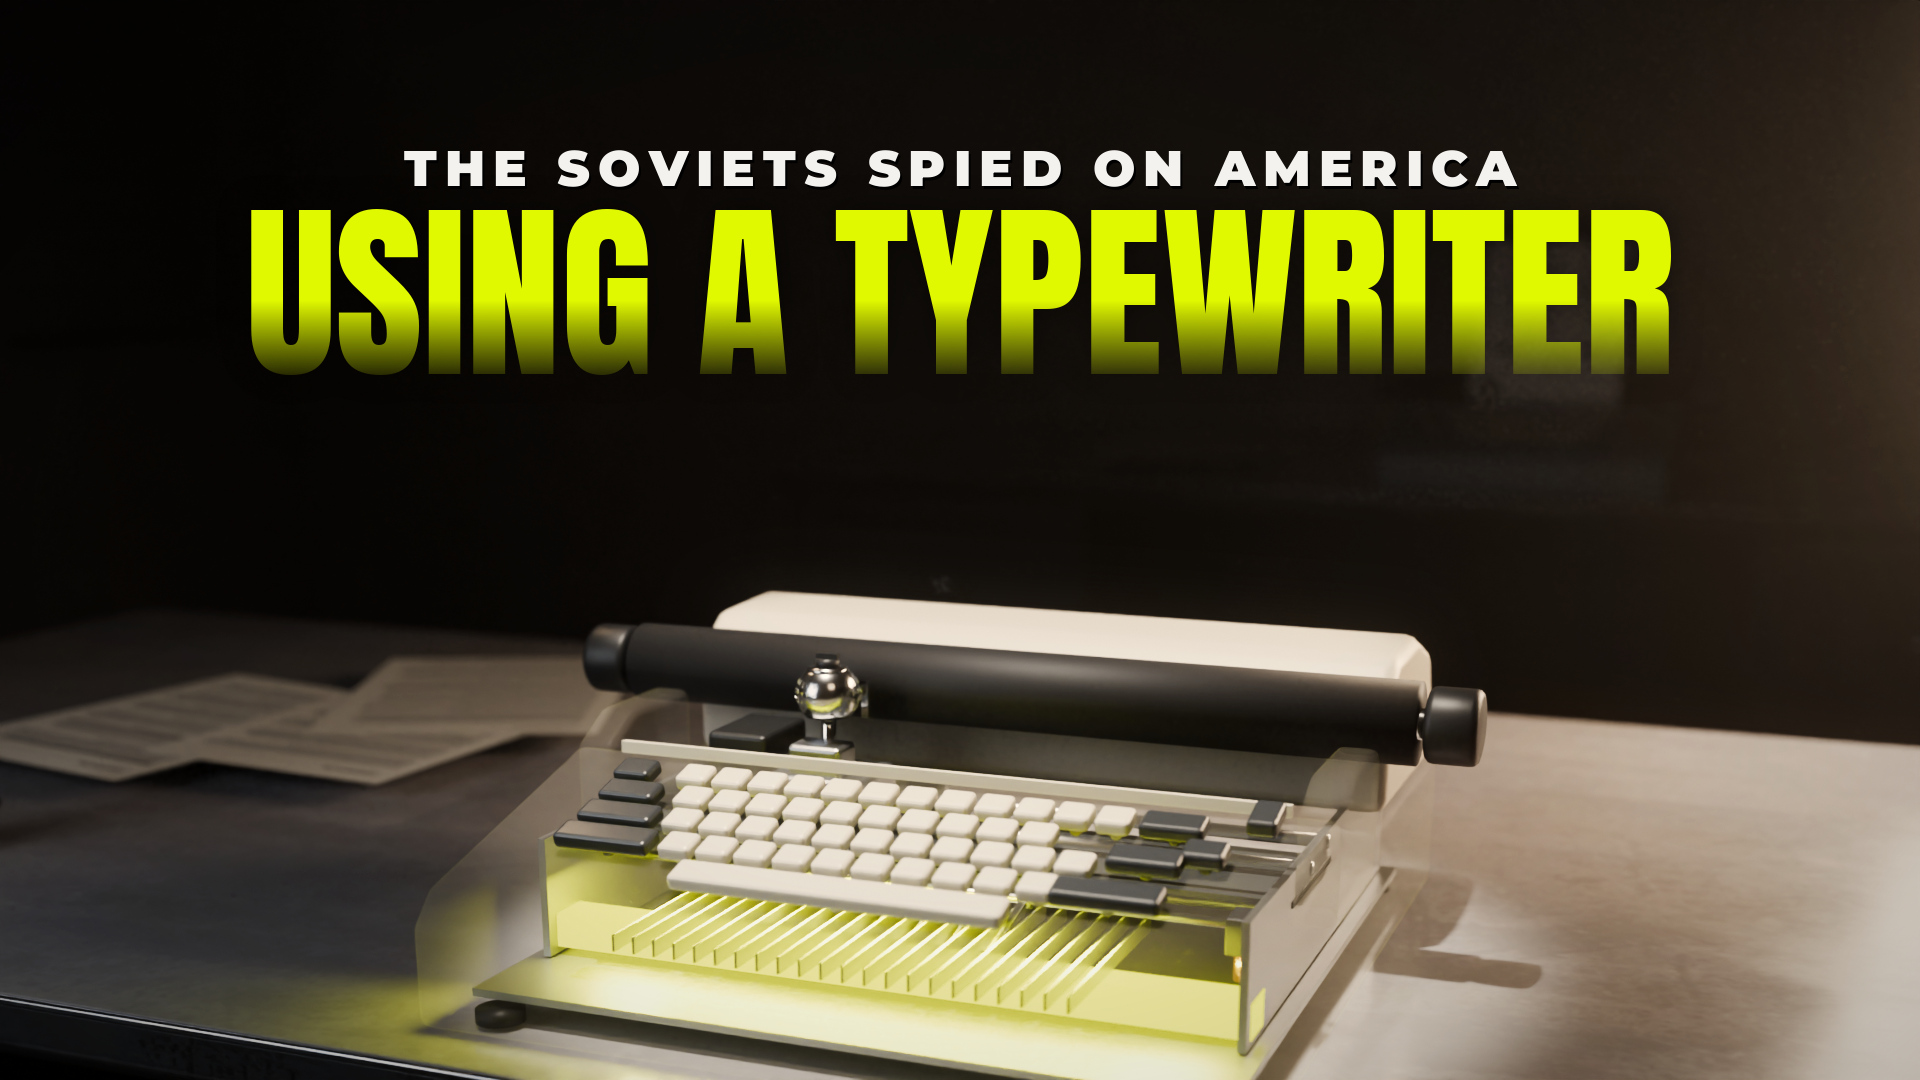
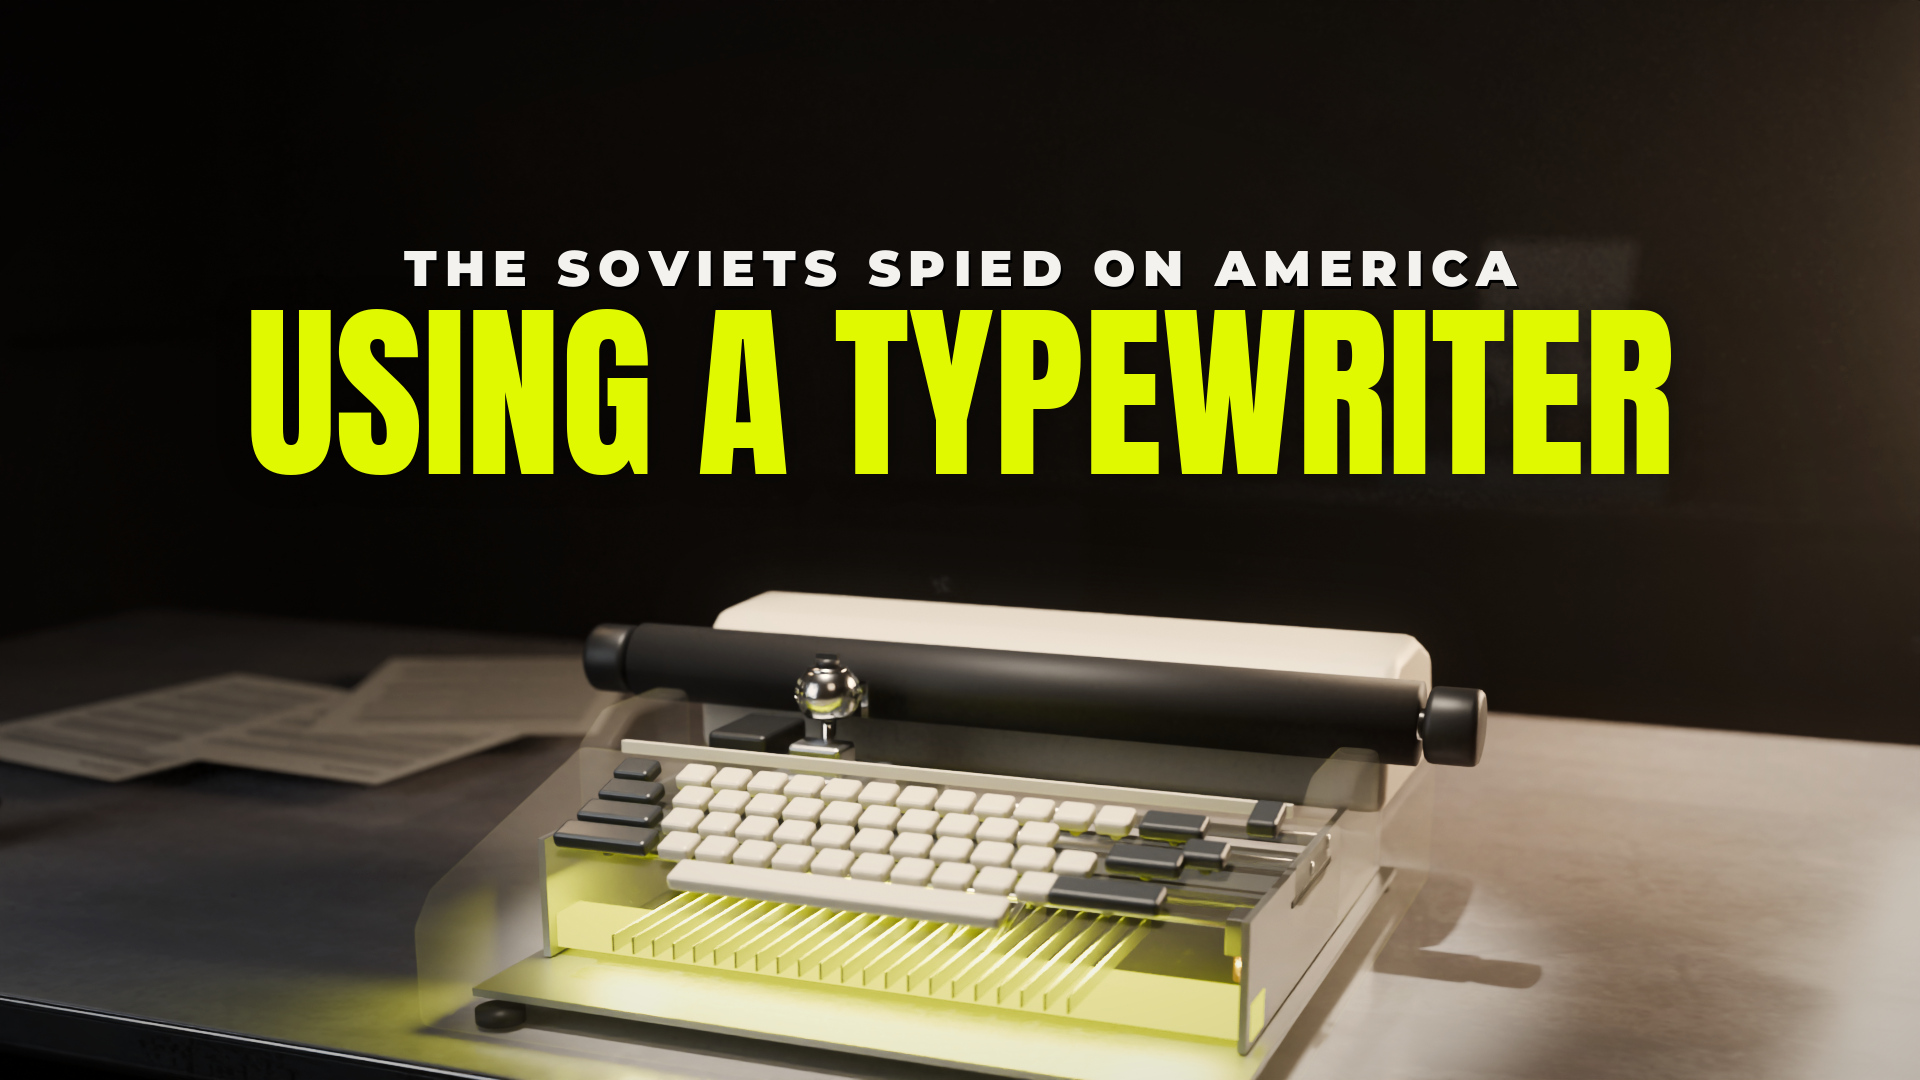
Typewriters thumbnail B: solid lime title (no fade), text lowered
Claude-Session: https://claude.ai/code/session_01XfwPSn2rDX1TedbFgHWJ1r

Changed region(s): [[0.125, 0.1222, 0.875, 0.4583]]

diff --git a/thumbnails/typewriters/concepts_b.py b/thumbnails/typewriters/concepts_b.py
@@ -48,10 +48,12 @@ def swap_machine(c):
     return tw
 
 
-def setup(c):
+def setup(c, xray=True):
     from kit import haze
     import typewriter as T
     tw = swap_machine(c)
+    if not xray:
+        return _rest(c, tw, xray)
     # X-ray: the lower case and side towers go mostly clear, so the bar inside shows; keys and platen stay solid
     lower = [o for o in tw["shell"] if o.name.startswith(("TWX_Lower", "TWX_Side"))]
     T.xray_shell(tw, expr="0.93", objs=lower, tint=LIMEC)
@@ -60,9 +62,17 @@ def setup(c):
         o.data = o.data.copy(); o.data.materials.clear(); o.data.materials.append(hot if "Chip" in o.name else glow)
     for o in (tw["bar"], tw["bar_lid"]):
         o.data = o.data.copy(); o.data.materials.clear(); o.data.materials.append(_emit("BarGlow", LIMEC, 5.0))
+    _rest(c, tw, xray)
+
+
+def _rest(c, tw, xray):
+    from kit import haze
+    import typewriter as T
     bl = bpy.data.lights.new("BugLight", 'AREA'); bl.energy = 10; bl.size = 0.3; bl.shape = 'RECTANGLE'; bl.size_y = 0.03
     bl.color = LIMEC; bo = bpy.data.objects.new("BugLight", bl); bpy.context.collection.objects.link(bo)
-    bo.location = _w(c, (0, T.BAR_Y, T.BAR_Z + 0.03)); bo.rotation_euler = c["tw"]["root"].rotation_euler
+    bo.location = _w(c, (0, T.BAR_Y, T.BAR_Z + 0.03)) if xray else _w(c, (0, -0.1, 0.004))
+    if not xray:                                     # solid machine: the glow leaks out from under it onto the desk
+        bl.energy = 25; bl.size = 0.42; bl.size_y = 0.3; bo.rotation_euler = (0, 0, 0); bo.rotation_euler = c["tw"]["root"].rotation_euler
     p0 = _w(c, (0, 0, 0))
     for o in bpy.data.objects:                       # chairs and clutter between the camera and the machine
         n = o.name.lower()
@@ -96,6 +106,8 @@ def machine(c):
 
 
 CONCEPTS = {
+    "tw_solid": dict(scene="twoffice", variant="night", cam=cam, shift=(0.0, 0.15), focus=lambda c: _w(c, (0, -0.06, 0.08)),
+                     fstop=2.8, setup=lambda c: setup(c, xray=False), exposure=-1.2, mask=machine),
     "tw_b": dict(scene="twoffice", variant="night", cam=cam, shift=(0.0, 0.15), focus=lambda c: _w(c, (0, -0.06, 0.08)),
                  fstop=2.8, setup=setup, exposure=-1.2, mask=machine),
 }

diff --git a/thumbnails/typewriters/make_final_b.py b/thumbnails/typewriters/make_final_b.py
@@ -8,12 +8,13 @@ from cine import cine_grade, title, LIME, WHITE
 from compose import load_plate
 P = sys.argv[1] if len(sys.argv) > 1 else os.path.join(HERE, "plates")
 OUT = sys.argv[2] if len(sys.argv) > 2 else HERE
+NAME = sys.argv[3] if len(sys.argv) > 3 else "tw_b"
 D = os.path.join(OUT, "download_b"); os.makedirs(D, exist_ok=True)
-g = cine_grade(load_plate(os.path.join(P, "tw_b.png")), clarity=0.0, grain=0.0, bloom=0.15,
+g = cine_grade(load_plate(os.path.join(P, NAME + ".png")), clarity=0.0, grain=0.0, bloom=0.15,
                shadows=(0.0, 0.0, 0.0), highs=(1.03, 1.0, 0.96), vignette=0.45)
-t = title(g, "THE SOVIETS SPIED ON AMERICA", "USING A TYPEWRITER", LIME, WHITE, "anton", 190, 150, kicker_size=50, tracking_k=8,
-          matte=os.path.join(P, "tw_b_mask.png"))
-t.save(os.path.join(OUT, "typewriters_final_B.jpg"), quality=97, subsampling=0)
+t = title(g, "THE SOVIETS SPIED ON AMERICA", "USING A TYPEWRITER", LIME, WHITE, "anton", 190, 250, kicker_size=50, tracking_k=8, fade=0.0,
+          matte=os.path.join(P, NAME + "_mask.png"))
+t.save(os.path.join(OUT, f"typewriters_final_{NAME}.jpg"), quality=97, subsampling=0)
 t.save(os.path.join(D, "typewriters_thumbnail_TYPEWRITER.png")); t.save(os.path.join(D, "typewriters_thumbnail_TYPEWRITER_youtube.jpg"), quality=96, subsampling=0)
 g.save(os.path.join(D, "typewriters_thumbnail_notext.png")); g.save(os.path.join(D, "typewriters_thumbnail_notext_youtube.jpg"), quality=96, subsampling=0)
 print("done")
